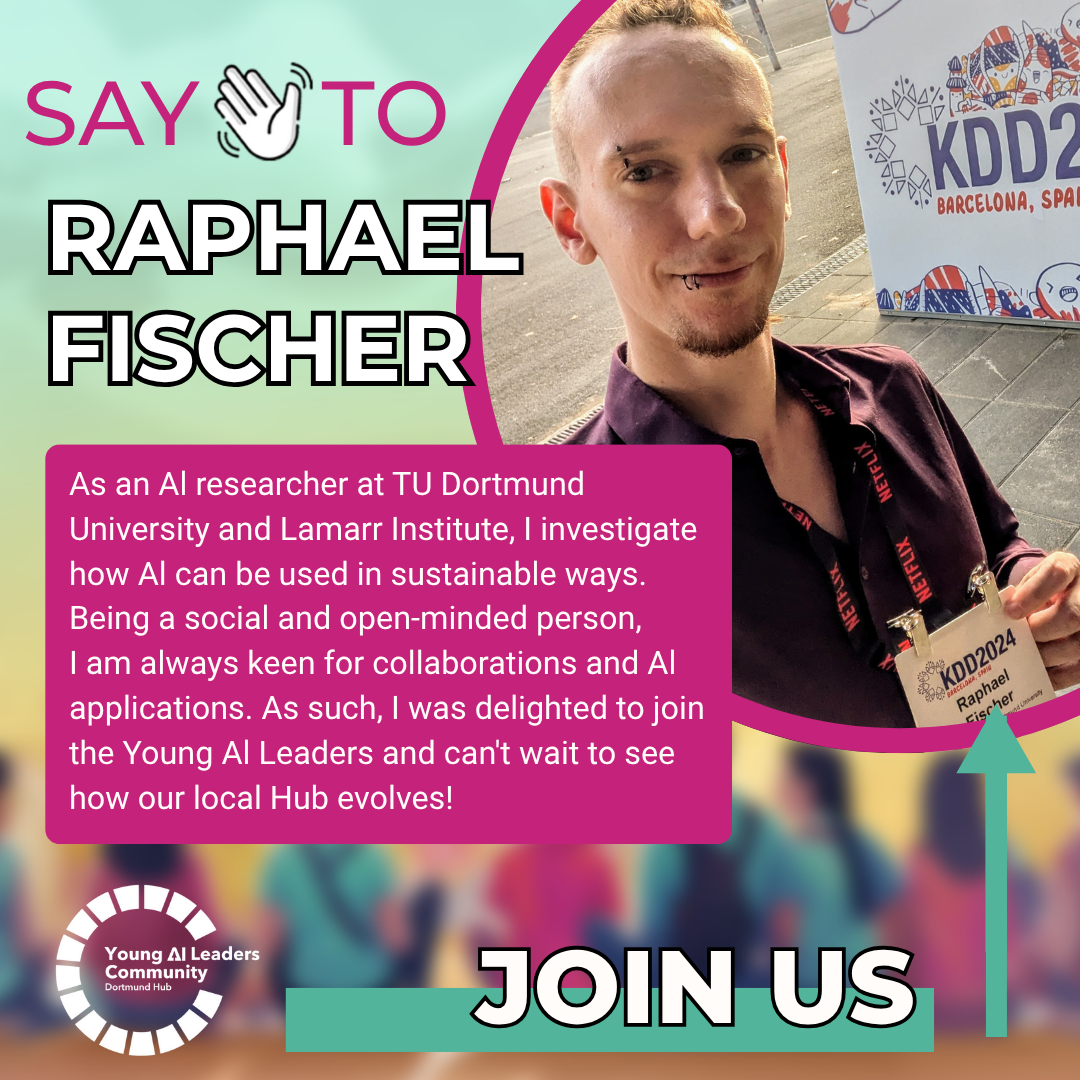
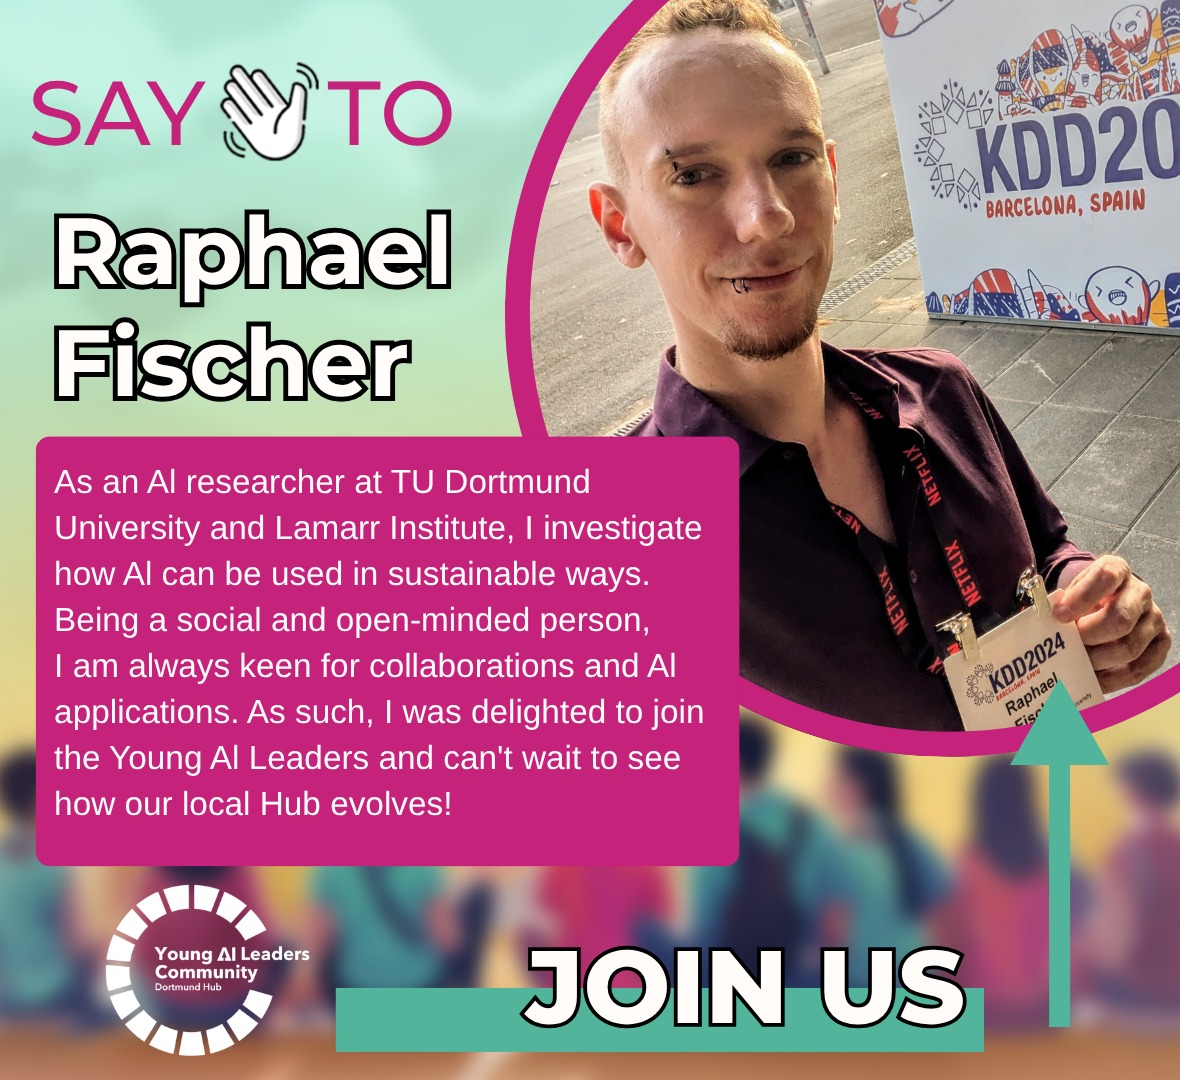
updated members

diff --git a/src/components/layout/MembersSection.tsx b/src/components/layout/MembersSection.tsx
@@ -4,42 +4,112 @@ import '../../App.css';
 const members = [
   {
     name: 'Raphael Fischer',
-    image: new URL('../../../members/Raphael.png', import.meta.url).href,
-    linkedinUrl: 'https://www.linkedin.com/in/raphael-fischer-3b1046208/',
+    image: new URL('../../../members/1.png', import.meta.url).href,
+    url: 'https://aiforgood.itu.int/speaker/raphael-fischer/'
   },
   {
     name: 'Nico Koltermann',
-    image: new URL('../../../members/Nico.png', import.meta.url).href,
-    linkedinUrl: 'https://www.linkedin.com/in/nico-koltermann/',
+    image: new URL('../../../members/2.png', import.meta.url).href,
+    url: 'https://aiforgood.itu.int/speaker/nico-koltermann/'
   },
   {
     name: 'Bahavathy Kathirgamanathan',
-    image: new URL('../../../members/Bahavathy.png', import.meta.url).href,
-    linkedinUrl: 'https://www.linkedin.com/in/bahavathy-kathirgamanathan/',
+    image: new URL('../../../members/3.png', import.meta.url).href,
+    url: 'https://aiforgood.itu.int/speaker/bahavathy-kathirgamanathan/'
   },
   {
-    name: 'Celine Wald',
-    image: new URL('../../../members/Celine.png', import.meta.url).href,
-    linkedinUrl: 'https://de.linkedin.com/in/celine-wald-b3715b378',
+    name: 'Adrian Orego',
+    image: new URL('../../../members/4.png', import.meta.url).href,
+    url: 'https://aiforgood.itu.int/speaker/adrian-orego/'
   },
   {
-    name: 'Philip Varghese Modayil',
-    image: new URL('../../../members/Philip.png', import.meta.url).href,
-    linkedinUrl: 'https://de.linkedin.com/in/philipmodayil',
+    name: 'Louisa von Essen',
+    image: new URL('../../../members/5.png', import.meta.url).href,
+    url: 'https://aiforgood.itu.int/speaker/louisa-von-essen/'
+  },
+  {
+    name: 'Lea Busse',
+    image: new URL('../../../members/6.png', import.meta.url).href,
+    url: 'https://aiforgood.itu.int/speaker/lea-busse/'
   },
   {
     name: 'Tareq Khouja',
-    image: new URL('../../../members/Tareq.png', import.meta.url).href,
-    linkedinUrl: 'https://de.linkedin.com/in/tareq-khouja',
+    image: new URL('../../../members/7.png', import.meta.url).href,
+    url: 'https://aiforgood.itu.int/speaker/tareq-khouja/'
   },
+  {
+    name: 'Celine Wald',
+    image: new URL('../../../members/8.png', import.meta.url).href,
+    url: 'https://aiforgood.itu.int/speaker/celine-wald/'
+  },
+  {
+    name: 'Youssef Abdelrahim',
+    image: new URL('../../../members/9.png', import.meta.url).href,
+    url: 'https://aiforgood.itu.int/speaker/youssef-abdelrahim/'
+  },
+  {
+    name: 'Philip Modayil',
+    image: new URL('../../../members/10.png', import.meta.url).href,
+    url: 'https://aiforgood.itu.int/speaker/philip-modayil/'
+  },
+  {
+    name: 'Grigorii Iakovlev',
+    image: new URL('../../../members/11.png', import.meta.url).href,
+    url: 'https://aiforgood.itu.int/speaker/grigorii-iakovlev/'
+  },
+  {
+    name: 'Hendrik Weißenfels',
+    image: new URL('../../../members/12.png', import.meta.url).href,
+    url: 'https://aiforgood.itu.int/speaker/hendrik-weisenfels/'
+  },
+  {
+    name: 'Robin Stecher',
+    image: new URL('../../../members/13.png', import.meta.url).href,
+    url: 'https://aiforgood.itu.int/speaker/robin-stecher/'
+  },
+  {
+    name: 'Shreya Sunil',
+    image: new URL('../../../members/14.png', import.meta.url).href,
+    url: 'https://aiforgood.itu.int/speaker/shreya-sunil/'
+  },
+  {
+    name: 'Lukas Claes',
+    image: new URL('../../../members/15.png', import.meta.url).href,
+    url: 'https://aiforgood.itu.int/speaker/lukas-claes/'
+  },
+  {
+    name: 'Jannis Becktepe',
+    image: new URL('../../../members/16.png', import.meta.url).href,
+    url: 'https://aiforgood.itu.int/speaker/jannis-becktepe/'
+  },
+  {
+    name: 'Ghassan Al Dahik',
+    image: new URL('../../../members/17.png', import.meta.url).href,
+    url: 'https://aiforgood.itu.int/speaker/ghassan-al-dahik/'
+  },
+  {
+    name: 'Rean Clive Fernandes',
+    image: new URL('../../../members/18.png', import.meta.url).href,
+    url: 'https://aiforgood.itu.int/speaker/rean-clive-fernandes/'
+  }
 ];
 
-function LinkedinIcon() {
+function WebIcon() {
   return (
+    // <svg viewBox="0 0 24 24" aria-hidden="true" focusable="false">
+    //   <path d="M6.94 8.99H3.72v10.32h3.22V8.99ZM5.33 4.04a1.86 1.86 0 1 0 0 3.72 1.86 1.86 0 0 0 0-3.72Zm13.9 9.36c0-3.1-1.65-4.54-3.86-4.54a3.33 3.33 0 0 0-3 1.65h-.05V8.99H9.24v10.32h3.21v-5.1c0-1.35.26-2.65 1.93-2.65 1.64 0 1.66 1.53 1.66 2.73v5.02h3.2V13.4Z" />
+    // </svg> // LinkedIn
     <svg viewBox="0 0 24 24" aria-hidden="true" focusable="false">
-      <path d="M6.94 8.99H3.72v10.32h3.22V8.99ZM5.33 4.04a1.86 1.86 0 1 0 0 3.72 1.86 1.86 0 0 0 0-3.72Zm13.9 9.36c0-3.1-1.65-4.54-3.86-4.54a3.33 3.33 0 0 0-3 1.65h-.05V8.99H9.24v10.32h3.21v-5.1c0-1.35.26-2.65 1.93-2.65 1.64 0 1.66 1.53 1.66 2.73v5.02h3.2V13.4Z" />
-    </svg>
+      <path d="M12 2C6.48 2 2 6.48 2 12s4.48 10 10 10 10-4.48 10-10S17.52 2 12 2Zm7.93 9h-3.06a15.7 15.7 0 0 0-1.38-5.03A8.03 8.03 0 0 1 19.93 11ZM12 4.07c.83 1.2 1.86 3.42 2.18 6.93H9.82C10.14 7.49 11.17 5.27 12 4.07ZM4.07 13h3.06c.12 1.8.58 3.53 1.38 5.03A8.03 8.03 0 0 1 4.07 13Zm3.06-2H4.07a8.03 8.03 0 0 1 4.44-5.03A15.7 15.7 0 0 0 7.13 11Zm1.99 0c.36-3.8 1.52-6.42 2.88-7.93 1.36 1.51 2.52 4.13 2.88 7.93H9.12ZM12 19.93c-.83-1.2-1.86-3.42-2.18-6.93h4.36c-.32 3.51-1.35 5.73-2.18 6.93ZM14.88 13c-.36 3.8-1.52 6.42-2.88 7.93-1.36-1.51-2.52-4.13-2.88-7.93h5.76Zm.61 5.03A15.7 15.7 0 0 0 16.87 13h3.06a8.03 8.03 0 0 1-4.44 5.03Z"/>
+    </svg> // generic web
   );
+}
+
+function getMemberPosition(image: string) {
+  if (image.endsWith('1.png')) return 'Hub Leader';
+  if (image.endsWith('2.png')) return 'Impact Lead';
+  if (image.endsWith('3.png')) return 'Regional Lead';
+  return 'Member';
 }
 
 function MembersSection() {
@@ -60,16 +130,16 @@ function MembersSection() {
               <div className="member-card-body">
                 <div>
                   <h3 className="member-name">{member.name}</h3>
-                  <p className="member-position">{t('members.position')}</p>
+                  <p className="member-position">{getMemberPosition(member.image)}</p>
                 </div>
                 <a
                   className="member-linkedin"
-                  href={member.linkedinUrl}
+                  href={member.url}
                   target="_blank"
                   rel="noreferrer"
                   aria-label={t('members.linkedinLabel', { name: member.name })}
                 >
-                  <LinkedinIcon />
+                  <WebIcon />
                 </a>
               </div>
             </article>

diff --git a/src/App.css b/src/App.css
@@ -641,28 +641,13 @@ h3 {
   box-shadow: var(--shadow-small);
 }
 
-.member-photo-wrap {
-  position: relative;
-  aspect-ratio: 1 / 1;
-  overflow: hidden;
-  background: var(--surface-teal);
-}
-
-.member-photo-wrap::after {
-  content: "";
-  position: absolute;
-  left: 0;
-  right: 0;
-  bottom: 0;
-  height: 7px;
-  background: linear-gradient(90deg, var(--brand-teal), var(--brand-yellow), var(--brand-orange), var(--brand-magenta));
-}
-
 .member-photo {
   width: 100%;
   height: 100%;
   display: block;
-  object-fit: cover;
+  object-fit: contain;
+  object-position: center;
+  background: var(--surface-teal);
 }
 
 .member-card-body {
